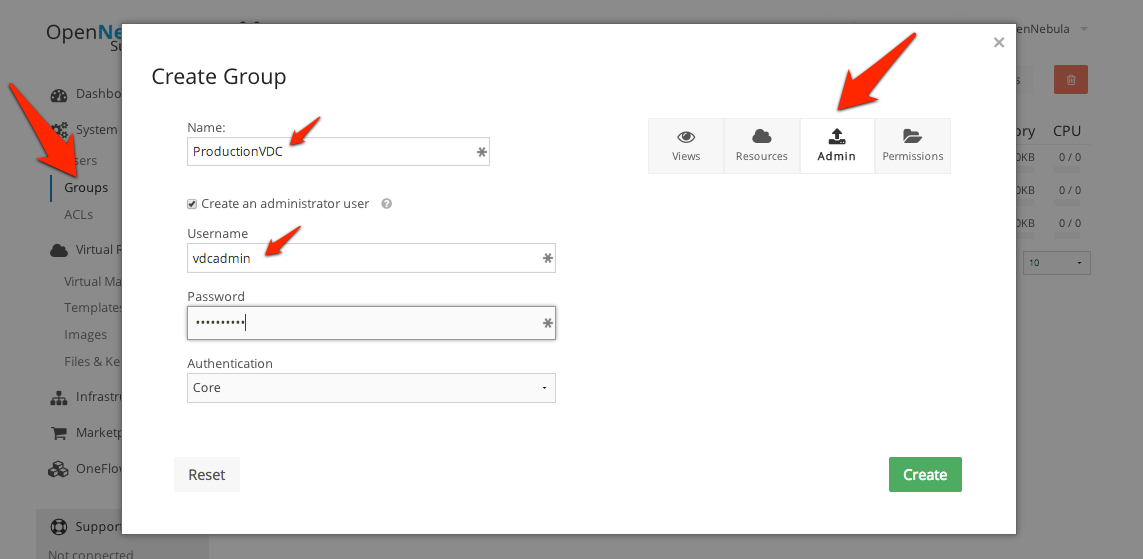
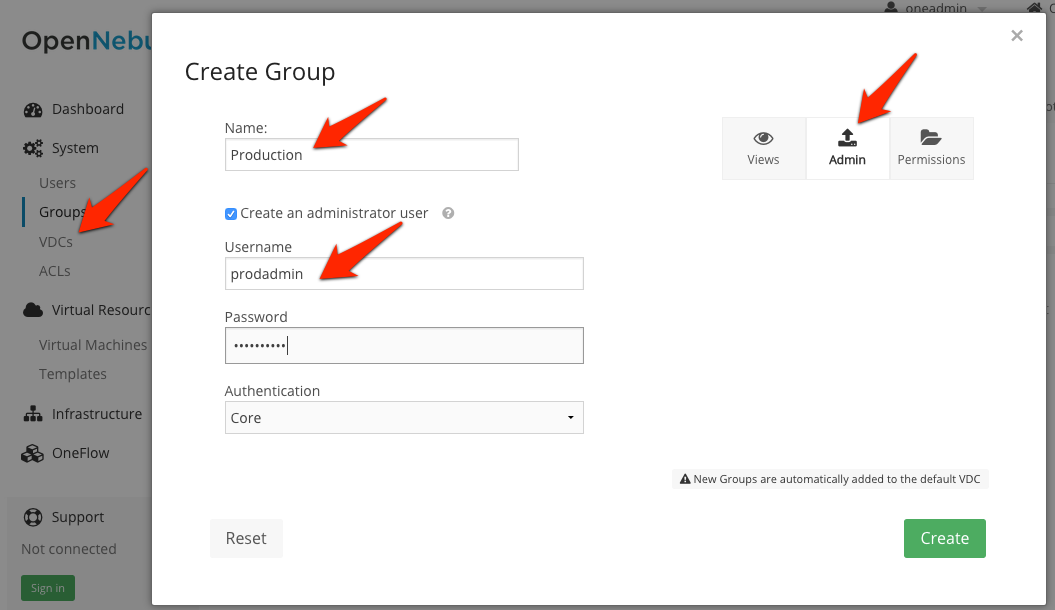
Modify ONE links to doc generation

diff --git a/docs/source/conf.py b/docs/source/conf.py
@@ -35,7 +35,7 @@ sys.path.append(os.path.abspath('ext'))
 # extensions coming with Sphinx (named 'sphinx.ext.*') or your custom
 # ones.
 extensions = [
-    'sphinx.ext.todo', 'versions'
+    'sphinx.ext.todo', 'versions', 'sphinx.ext.extlinks'
 ]
 
 todo_include_todos = True
@@ -71,6 +71,8 @@ copyright = '2015, OpenNebula Systems'
 #
 # The short X.Y version.
 version = '1.4'
+
+extlinks = {'doc': ('http://docs.opennebula.org/4.12/%s', 'doc ')}
 
 # The full version, including alpha/beta/rc tags.
 release = '1.4.0'

diff --git a/docs/source/ext/versions.py b/docs/source/ext/versions.py
@@ -4,6 +4,7 @@ def setup(app):
 
     app.connect('html-page-context', create_versions)
 
+
 def create_versions(app, docname, templatename, ctx, doctree):
     ctx['versions']  = app.builder.env.config['versions']
     ctx['downloads'] = app.builder.env.config['downloads']

diff --git a/docs/source/overview/features.rst b/docs/source/overview/features.rst
@@ -6,7 +6,7 @@ vOneCloud Features
 
 .. _features_outofthebox:
 
-vOneCloud leverages the `functionality of OpenNebula <http://docs.opennebula.org/4.10/release_notes/release_notes/features.html>`__. The following features come preconfigured and can be used **out-of-the-box** with vOneCloud:
+vOneCloud leverages the :doc:`functionality of OpenNebula <release_notes/release_notes/features.html>`. The following features come preconfigured and can be used **out-of-the-box** with vOneCloud:
 
 * **Cloud User Interfaces**
 
@@ -25,7 +25,7 @@ vOneCloud leverages the `functionality of OpenNebula <http://docs.opennebula.org
 
 * **On-demand Provision of Virtual Data Centers**
 
-  * Dynamic creation of Virtual Data Centers (VDCs) as fully-isolated virtual infrastructure environments where a group of users, under the control of the VDC administrator, can create and manage compute capacity
+  * Dynamic creation of Virtual Data Centers (VDCs) as fully-isolated virtual infrastructure environments where a group of users, under the control of the group administrator, can create and manage compute capacity
   * Placement of VDCs to multiple vCenters
 
 * **Hybrid Cloud**
@@ -76,14 +76,14 @@ If you feel that there is a particular feature interesting for the general publi
 
 vOneCloud can leverage all the functionality that OpenNebula delivers, but some of it needs **additional configuration** steps:
 
-* `Centralized Management of Multiple Zones <http://docs.opennebula.org/4.10/release_notes/release_notes/features.html#centralized-management-of-multiple-zones>`__. Federate different datacenters by joining several vOneCloud instances.
+* :doc:`Centralized Management of Multiple Zones <release_notes/release_notes/features.html#centralized-management-of-multiple-zones>`. Federate different datacenters by joining several vOneCloud instances.
 
-* `Community Virtual Appliance Marketplace <http://docs.opennebula.org/4.10/release_notes/release_notes/features.html#community-virtual-appliance-marketplace>`__. Create your own marketplace or benefit from community contributions with an online catalog of ready-to-run virtual appliances.
+* :doc:`Community Virtual Appliance Marketplace <release_notes/release_notes/features.html#community-virtual-appliance-marketplace>`. Create your own marketplace or benefit from community contributions with an online catalog of ready-to-run virtual appliances.
 
-* `Broad Commodity and Enterprise Platform Support <http://docs.opennebula.org/4.10/release_notes/release_notes/features.html#broad-commodity-and-enterprise-platform-support>`__. Underlying OpenNebula software features an amazingly flexible and plugin oriented architecture that eases the integration with existing datacenter components. Do no reinvent your datacenter, evolve it!
+* :doc:`Broad Commodity and Enterprise Platform Support <release_notes/release_notes/features.html#broad-commodity-and-enterprise-platform-support>`. Underlying OpenNebula software features an amazingly flexible and plugin oriented architecture that eases the integration with existing datacenter components. Do no reinvent your datacenter, evolve it!
 
-* `Virtual <http://docs.opennebula.org/4.10/release_notes/release_notes/features.html#advanced-control-and-monitoring-of-virtual-infrastructure>`__ & `Physical <http://docs.opennebula.org/4.10/release_notes/release_notes/features.html#advanced-control-and-monitoring-of-physical-infrastructure>`__ Infrastructure Control. Manage all aspects of your physical (hypervisors, storage backends, etc) & virtualized (VM lifecycle, VM images, virtual networks, etc) from a centralized web interface (Sunstone).
+* :doc:`Virtual <release_notes/release_notes/features.html#advanced-control-and-monitoring-of-virtual-infrastructure>` & :doc:`Physical <release_notes/release_notes/features.html#advanced-control-and-monitoring-of-physical-infrastructure>` Infrastructure Control. Manage all aspects of your physical (hypervisors, storage backends, etc) & virtualized (VM lifecycle, VM images, virtual networks, etc) from a centralized web interface (Sunstone).
 
-* `Management of multi-VM application (services) through the OneFlow component <http://docs.opennebula.org/4.10/advanced_administration/application_flow_and_auto-scaling/oneapps_overview.html>`__. OneFlow allows users and administrators to define, execute and manage multi-tiered applications, or services composed of interconnected Virtual Machines with deployment dependencies between them. Each group of Virtual Machines is deployed and managed as a single entity.
+* :doc:`Management of multi-VM application (services) through the OneFlow component <advanced_administration/application_flow_and_auto-scaling/oneapps_overview.html>`. OneFlow allows users and administrators to define, execute and manage multi-tiered applications, or services composed of interconnected Virtual Machines with deployment dependencies between them. Each group of Virtual Machines is deployed and managed as a single entity.
 
 Although the configuration is tailored for vCenter infrastructures, all the power of OpenNebula is contained in vOneCloud and it can be unleashed!

diff --git a/docs/source/security_and_resource_consumption_control/users_groups.rst b/docs/source/security_and_resource_consumption_control/users_groups.rst
@@ -13,38 +13,36 @@ User & Roles
 
 vOneCloud can manage different types of users, attending to the permissions they have over infrastructure and logical resources.
 
-+----------------------+-----------------------------------------------------------------+----------+
-|    **User Type**     |                         **Permissions**                         | **View** |
-+----------------------+-----------------------------------------------------------------+----------+
-| Cloud Administrators | enough privileges to perform any operation on any object        | vcenter  |
-+----------------------+-----------------------------------------------------------------+----------+
-| VDC Administrators   | manage a limited set of resources and users                     | vdcadmin |
-+----------------------+-----------------------------------------------------------------+----------+
-| VDC & End Users      | access a simplified view with limited actions to create new VMs | cloud    |
-+----------------------+-----------------------------------------------------------------+----------+
++----------------------+-----------------------------------------------------------------+------------+
+|    **User Type**     |                         **Permissions**                         |  **View**  |
++----------------------+-----------------------------------------------------------------+------------+
+| Cloud Administrators | enough privileges to perform any operation on any object        | vcenter    |
++----------------------+-----------------------------------------------------------------+------------+
+| Group Administrators | manage a limited set and users within VDCs                      | groupadmin |
++----------------------+-----------------------------------------------------------------+------------+
+| End Users            | access a simplified view with limited actions to create new VMs | cloud      |
++----------------------+-----------------------------------------------------------------+------------+
 
 .. note:: VDC is the acronym for Virtual Datacenter
 
 .. image:: /images/sunstone_user_list.png
     :align: center
 
-Learn more about user management `here <http://docs.opennebula.org/4.10/administration/users_and_groups/manage_users.html>`__.
+Learn more about user management :doc:`here <administration/users_and_groups/manage_users.html>`.
 
 .. _vdc_management:
 
 Group & VDC Management
 ----------------------
 
-A **group** in vOneCloud is an authorization boundary for users, but it can also be used to partition the cloud infrastructure and define what resources are available to each group.
+A **group** of users makes it possible to isolate users and resources. A user can see and use the shared resources from other users. The **group** is an authorization boundary for the users, but you can also partition your cloud infrastructure and define what resources are available to each group using Virtual Data Centers (VDC).
 
-A **resource provider** is a set of physical hosts and associated datastores and virtual networks, which is logically grouped into a cluster. When you assign a resource provider to a group, users in that group will be able to use resources of that cluster.
-
-A group and an associated resource provider forms a **Virtual Datacenter (VDC)**. VDCs are a great way to partition your cloud into smaller clouds, with their administrator and users, completely isolated from other VDCs.
+A VDC defines an assignment of one or several groups to a pool of physical resources. This pool of physical resources consists of resources from one or several clusters, which are logical agroupations of hosts and virtual networks. VDCs are a great way to partition your cloud into smaller clouds, and asign them to groups with their administrators and users, completely isolated from other groups.
 
 .. image:: /images/sunstone_group_list.png
     :align: center
 
-Read more about `groups <http://docs.opennebula.org/4.10/administration/users_and_groups/manage_groups.html>`__ and `VDCs <http://docs.opennebula.org/4.10/administration/users_and_groups/manage_groups.html#managing-vdc-and-resource-providers>`__.
+Read more about :doc:`groups <administration/users_and_groups/manage_groups.html>` and :doc:`VDCs <administration/users_and_groups/manage_groups.html#managing-vdc-and-resource-providers>`.
 
 Access Control Lists
 --------------------
@@ -54,5 +52,5 @@ vOneCloud implements a very useful ACL mechanism that enables fine-tuning of all
 .. image:: /images/sunstone_acl_list.png
     :align: center
 
-Writing (or even reading) ACL rules is not trivial, more information about `ACLs here <http://docs.opennebula.org/4.10/administration/users_and_groups/manage_acl.html>`__.
+Writing (or even reading) ACL rules is not trivial, more information about :doc:`ACLs here <administration/users_and_groups/manage_acl.html>`.
 

diff --git a/docs/source/simple_cloud_deployment/interfaces.rst b/docs/source/simple_cloud_deployment/interfaces.rst
@@ -11,19 +11,19 @@ Web Interface (Sunstone)
 
 vOneCloud web interface, called Sunstone, offers three main views:
 
-- `Sunstone vCenter view <http://docs.opennebula.org/4.10/administration/sunstone_gui/suns_views.html#vcenter-view>`__: Aimed at cloud administrators, this view is tailored to present all the available options to manage the physical and virtual aspects of your vCenter infrastructure.
+- :doc:`Sunstone vCenter view <administration/sunstone_gui/suns_views.html#vcenter-view>`: Aimed at cloud administrators, this view is tailored to present all the available options to manage the physical and virtual aspects of your vCenter infrastructure.
 
 .. image:: /images/vcenter_view.png
     :align: center
 
-- `Sunstone VDC Admin View <http://docs.opennebula.org/4.10/administration/sunstone_gui/vdc_admin_view.html>`__: Aimed at Virtual Datacenter administrators, this interface is designed to manage all the virtual resources of the VDC, including the creation of new users.
+- :doc:`Sunstone Group Admin View <administration/sunstone_gui/vdc_admin_view.html>`: Aimed at Group administrators, this interface is designed to manage all the virtual resources accesible by a group of users, including the creation of new users.
 
 .. image:: /images/vdcadmin_dash.png
     :align: center
 
 .. _vcenter_cloud_view:
 
-- **Sunstone vCenter Cloud View**: Aimed at end users, this interface eases virtual resource provisioning and hides all the complexity of the cloud that is going on behind the scenes. It is a tailored version of the Sunstone `Cloud View <http://docs.opennebula.org/4.10/administration/sunstone_gui/cloud_view.html>`__, with adjusted functionality relevant to vOneCloud and vCenter.
+- **Sunstone vCenter Cloud View**: Aimed at end users, this interface eases virtual resource provisioning and hides all the complexity of the cloud that is going on behind the scenes. It is a tailored version of the Sunstone :doc:`Cloud View <administration/sunstone_gui/cloud_view.html>`, with adjusted functionality relevant to vOneCloud and vCenter.
 
 .. image:: /images/cloud_dash.png
     :align: center
@@ -33,7 +33,7 @@ vOneCloud web interface, called Sunstone, offers three main views:
 Command Line Interface (CLI)
 ----------------------------
 
-If you are a SysAdmin, you will probably appreciate vOneCloud's `CLI <http://docs.opennebula.org/4.10/user/references/cli.html>`__, which uses the same design philosophy behind \*nix commands (one command for each task).
+If you are a SysAdmin, you will probably appreciate vOneCloud's :ref:`CLI <user/references/cli.html>`, which uses the same design philosophy behind \*nix commands (one command for each task).
 
 Moreover, vOneCloud ships with a powerful tool (``onevcenter``) to import vCenter clusters, VM Templates and Networks. The tools is self-explanatory, just set the credentials and IP to access the vCenter host and follow on screen instructions.
 
@@ -45,6 +45,6 @@ Application Programming Interfaces (API)
 
 If you are a DevOp, you are probably used to build scripts to automate tasks for you. vOneCloud offers a rich set of APIs to build scripts to perform these tasks in different programming languages:
 
-- `xmlrpc API <http://docs.opennebula.org/4.10/integration/system_interfaces/api.html>`__ Talk directly to the OpenNebula core
-- `Ruby OpenNebula Cloud API (OCA) <http://docs.opennebula.org/4.10/integration/system_interfaces/ruby.html>`__ Build tasks in Ruby
-- `Java OpenNebula Cloud API (OCA) <http://docs.opennebula.org/4.10/integration/system_interfaces/java.html>`__ Build tasks in Java
+- :doc:`xmlrpc API <integration/system_interfaces/api.html>` Talk directly to the OpenNebula core
+- :doc:`Ruby OpenNebula Cloud API (OCA) <integration/system_interfaces/ruby.html>` Build tasks in Ruby
+- :doc:`Java OpenNebula Cloud API (OCA) <integration/system_interfaces/java.html>` Build tasks in Java

diff --git a/docs/source/simple_cloud_deployment/create_vdc.rst b/docs/source/simple_cloud_deployment/create_vdc.rst
@@ -8,16 +8,27 @@ The provisioning model by default in vOneCloud is based on three different :ref:
 
 *vOneCloud* user comes preconfigured and is the **Cloud Administrator**, in full control of all the physical and virtual resources and using the vCenter view.
 
-The whole cloud can be divided in isolated partitions, called Virtual Datacenters, or VDCs. VDC are defined as group of users with access to a set of physical hosts and their associated resources in a transparent way. A **VDC Admin** manages her partition of the cloud, including user management, but only within her VDC, not for the whole cloud like the **Cloud Administrator**.
+A Virtual Datacenter (VDC) defines an assignment of one or several groups to a pool of physical resources. This pool of physical resources consists of resources from one or several clusters, which are logical agroupations of hosts and virtual networks. VDCs are a great way to partition your cloud into smaller clouds, and asign them to groups with their administrators and users, completely isolated from other groups.
 
-Let's create a VDC named *ProductionVDC* with an administrator called **vdcadmin**:
+A **Group Admin** manages her partition of the cloud, including user management, but only within the VDCs assigned to the Group, not for the whole cloud like the **Cloud Administrator**.
+
+Let's create a Group (under System) named *Production* with an administrator called **prodadmin**:
 
 .. image:: /images/create_vdc_adminview.png
     :align: center
 
-In the *Resources* tab you can chose which physical resources are assigned to the VDC. By default it will use all the available resources.
 
-Now login again using this newly created **vdcadmin**. The VDC Admin view will kick in. Try it out creating the first *vdcuser* and assign them quotas on resource usage:
+Let's create a VDCs (under System) named *ProductionVDC*, and assign the *Production* group to use it:
+
+.. image:: /images/create_prod_vdc.png
+    :align: center
+
+Let's add resources to the VDC under the "Resources" tab, the vCenter and a Virtual Network:
+
+.. image:: /images/assign_resources_to_vdc.png
+    :align: center
+
+Now login again using the newly created **prodadmin**. The Group Admin view will kick in. Try it out creating the first *produser* and assign them quotas on resource usage:
 
 .. image:: /images/create_vdc_vdcview.png
     :align: center
@@ -29,9 +40,9 @@ As *vOneCloud* user, in the vCenter View, you will be able to see all the VM Tem
 
 The same applies for Virtual Networks these VM Templates may use.
 
-If you log with *vdcuser*, the view will change to the vCenter Cloud View, where **vdcuser** can start consuming VMs based on the VM Template shared by the **cloud administrator** and allowed by the **vdcadmin**:
+If you log with *produser*, the view will change to the vCenter Cloud View, where **vdcuser** can start consuming VMs based on the VM Template shared by the **Cloud Administrator** and allowed by the **vdcadmin**:
 
 .. image:: /images/create_vdc_cloudview.png
     :align: center
 
-Read more about `VDC managing <http://docs.opennebula.org/4.10/administration/users_and_groups/manage_groups.html#managing-vdc-and-virtual-resources>`__.
+Read more about :doc:`Group <administration/users_and_groups/manage_groups.html#managing-vdc-and-virtual-resources>` and :doc:`VDC <administration/users_and_groups/manage_vdcs.html>` managing.

diff --git a/docs/source/release_notes/system_requirements.rst b/docs/source/release_notes/system_requirements.rst
@@ -12,7 +12,7 @@ The following components are needed to be present in the infrastructure to imple
 |    **Component**    |                                                                                                                          **Observations**                                                                                                                         |   |
 +---------------------+-------------------------------------------------------------------------------------------------------------------------------------------------------------------------------------------------------------------------------------------------------------------+---+
 | vCenter 5.5 and 6.0 | - ESX hosts, VM Templates and Running VMs expected to be managed by vOneCloud needs to be grouped into clusters                                                                                                                                                   |   |
-|                     | - The IP or DNS needs to be known, as well as the credentials (username and password) of an `admin user <http://docs.opennebula.org/4.10/administration/virtualization/vcenterg.html#requirements>`__.                                                            |   |
+|                     | - The IP or DNS needs to be known, as well as the credentials (username and password) of an :doc:`admin user <administration/virtualization/vcenterg.html#requirements>`.                                                                                         |   |
 |                     | - DRS is not required but it is recommended. vOneCloud does not schedule to the granularity of ESX hosts, and you would need DRS to select the actual ESX host within the cluster. Otherwise the VM will be started in the ESX host associated to the VM Template |   |
 |                     | - All ESX belonging to the same vCenter cluster to be exposed to vOneCloud need to share at least one datastore among them.                                                                                                                                       |   |
 |                     | - VMs that will be instantiated through vOneCloud saved as VMs Templates in vCenter.                                                                                                                                                                              |   |
@@ -36,4 +36,4 @@ vOneCloud ships with a default of 2 CPUs and 2 GB of RAM, and as such it has bee
 - Up to 1.000 VMs in total, each vCenter managing up to 250 VMs
 - Up to 100 users, being the concurrent limit 10 users accessing the system simultaneously
 
-.. note:: For infrastructures exceeding the aforementioned limits, we recommend an installation of OpenNebula from scratch on a bare metal server, using the `vCenter drivers <http://docs.opennebula.org/4.10/administration/virtualization/vcenterg.html>`__
+.. note:: For infrastructures exceeding the aforementioned limits, we recommend an installation of OpenNebula from scratch on a bare metal server, using the :doc:`vCenter drivers <administration/virtualization/vcenterg.html>`

diff --git a/docs/source/infrastructure_configuration/authentication.rst b/docs/source/infrastructure_configuration/authentication.rst
@@ -67,13 +67,13 @@ For changes to take effect, you need to restart vOneCloud services and wait for 
     :align: center
 
 
-You can find more infromation on the integration with Active Directory `in this guide <http://docs.opennebula.org/4.10/administration/authentication/ldap.html#active-directory>`__ .
+You can find more infromation on the integration with Active Directory :doc:`in this guide <administration/authentication/ldap.html#active-directory>`.
 
 vOneCloud supports are a variety of other authentication methods with advanced configuration, follow the links to find the configuration steps needed (:ref:`Advanced Login <advanced_login>` needed):
 
-+------------------------------------------------------------------------------------------------------------------+-------------------------------------------------------------------------------+
-| `X509 Authentication <http://docs.opennebula.org/4.10/administration/authentication/x509_auth.html#x509-auth>`__ | | Strengthen your cloud infrastructure security                               |
-+------------------------------------------------------------------------------------------------------------------+-------------------------------------------------------------------------------+
-| `SSH Authentication <http://docs.opennebula.org/4.10/administration/authentication/ssh_auth.html#ssh-auth>`__    | | Users will generate login tokens based on standard ssh rsa keypairs for     |
-|                                                                                                                  | | authentication                                                              |
-+------------------------------------------------------------------------------------------------------------------+-------------------------------------------------------------------------------+
++-------------------------------------------------------------------------------------+-------------------------------------------------------------------------+
+| :doc:`X509 Authentication <administration/authentication/x509_auth.html#x509-auth>` | Strengthen your cloud infrastructure security                           |
++-------------------------------------------------------------------------------------+-------------------------------------------------------------------------+
+| :doc:`SSH Authentication <administration/authentication/ssh_auth.html#ssh-auth>`    | Users will generate login tokens based on standard ssh rsa keypairs for |
+|                                                                                     | authentication                                                          |
++-------------------------------------------------------------------------------------+-------------------------------------------------------------------------+

diff --git a/docs/source/infrastructure_configuration/hybrid_cloud.rst b/docs/source/infrastructure_configuration/hybrid_cloud.rst
@@ -39,7 +39,7 @@ The capacity that you attach to this region will define the maximum number and t
 
 Follow the tool tips that appear on mouse over to correctly configure the parameters.
 
-You need the Access and Secret key to be retrieved from your AWS account. More information on Amazon EC2 support can be found `here <http://docs.opennebula.org/4.10/advanced_administration/cloud_bursting/ec2g.html>`__.
+You need the Access and Secret key to be retrieved from your AWS account. More information on Amazon EC2 support can be found :doc:`here <advanced_administration/cloud_bursting/ec2g.html>`.
 
 **MS Azure**
 
@@ -87,7 +87,7 @@ You need the Pem Management Certificate to be retrieved from your AWS account. F
 
 Afterwards, copy the context of the .pem certificate in the clipboard and paste it in the text area of the Control Panel Pem Management Certificate field.
 
-More information on MS Azure support can be found `here <http://docs.opennebula.org/4.10/advanced_administration/cloud_bursting/azg.html>`__.
+More information on MS Azure support can be found :doc:`here <advanced_administration/cloud_bursting/azg.html>`.
 
 .. note:: Azure hybrid connectors only support non authenticated http proxies
 
@@ -110,7 +110,7 @@ The capacity that you attach to this region will define the maximum number and t
 
 Follow the tool tips that appear on mouse over to correctly configure the parameters.
 
-You need your SoftLayer Username and the API Key that can be retrieved from your SoftLayer Control Panel. More information on IBM SoftLayer support can be found `here <http://docs.opennebula.org/4.10/advanced_administration/cloud_bursting/slg.html>`__.
+You need your SoftLayer Username and the API Key that can be retrieved from your SoftLayer Control Panel. More information on IBM SoftLayer support can be found :doc:`here <advanced_administration/cloud_bursting/slg.html>`.
 
 .. warning:: If vOneCloud is running behind a corporate http proxy, the SoftLayer hybrid connectors won't be available
 
@@ -145,4 +145,4 @@ Once templates are ready, they can be consumed at VM creation time from the Clou
 .. image:: /images/hybrid_cloud_view.png
     :align: center
 
-Learn more about `hybrid support <http://docs.opennebula.org/4.10/advanced_administration/cloud_bursting/introh.html>`__.
+Learn more about :doc:`hybrid support <advanced_administration/cloud_bursting/introh.html>`.

diff --git a/docs/source/overview/what_is.rst b/docs/source/overview/what_is.rst
@@ -9,7 +9,7 @@ What Is?
 
 **The Open Replacement for vCloud**
 
-vOneCloud is an `OpenNebula <http://docs.opennebula.org/4.10/design_and_installation/building_your_cloud/intro.html>`_ distribution optimized to work on existing VMware vCenter deployments. It deploys an enterprise-ready OpenNebula cloud just in a few minutes where the infrastructure is managed by already familiar VMware tools, such as vSphere and vCenter Operations Manager, and the provisioning, elasticity, multi-tenancy, elasticity and multi-vm cloud features are offered by OpenNebula. It inherits all the `benefits <http://opennebula.org/about/technology/>`__ from the open source cloud managment platform, adding an easy to deploy, easy to use aspect due to pre configuration of the OpenNebula install contained within the appliance.
+vOneCloud is an :doc:`OpenNebula <design_and_installation/building_your_cloud/intro.html>` distribution optimized to work on existing VMware vCenter deployments. It deploys an enterprise-ready OpenNebula cloud just in a few minutes where the infrastructure is managed by already familiar VMware tools, such as vSphere and vCenter Operations Manager, and the provisioning, elasticity, multi-tenancy, elasticity and multi-vm cloud features are offered by OpenNebula. It inherits all the `benefits <http://opennebula.org/about/technology/>`__ from the open source cloud managment platform, adding an easy to deploy, easy to use aspect due to pre configuration of the OpenNebula install contained within the appliance.
 
 vOneCloud is distributed as a virtual appliance in OVA format for vSphere. It contains all required OpenNebula services within a single CentOS Linux appliance. All components are fully open-source and have been certified to work in enterprise environments, vOneCloud 1.4 includes:
 

diff --git a/docs/source/release_notes/whats_new.rst b/docs/source/release_notes/whats_new.rst
@@ -4,13 +4,13 @@
 What's New vOneCloud 1.4
 ========================
 
-vOneCloud 1.4 is powered by OpenNebula Cotton Candy, and, as such, includes all the functionality present in `OpenNebula 4.12 Cotton Candy <http://docs.opennebula.org/4.12/release_notes/release_notes/index.html>`__.
+vOneCloud 1.4 is powered by OpenNebula Cotton Candy, and, as such, includes all the functionality present in :doc:`OpenNebula 4.12 Cotton Candy <release_notes/release_notes/index.html>`.
 
 The following Cloud Management features have been introduced in vOneCloud 1.4:
 
-- :ref:`Import running VMs <import_running_vms> with VNC capabilities`. vCenter running VMs with VNC ports set to open will be imported with VNC capabilities in vOneCloud
+- :ref:`Import running VMs with VNC capabilities <import_running_vms>`. vCenter running VMs with VNC ports set to open will be imported with VNC capabilities in vOneCloud
 - :ref:`Multi-VM capabilities <multi_vm_applications>`. Management of sets of VMs (services) through the OneFlow component
-- :ref:`Debug capabilities embedded in Control Panel <debug_control_panel>`. Useful to gather all the details of your infrastructure and get the best support.
+- :ref:`Debug capabilities embedded in Control Panel <app_conf_trouble_debug>`. Useful to gather all the details of your infrastructure and get the best support.
 - :ref:`Improved import and reacquire resources (VM, VM Templates and Networks) <import_running_vms>`. Separated dialogs for each resource instead of performing this actions through the host creation dialog.
 
 Multiple bugfixes and documentation improvements have been included in this version. Moreover, vOneCloud 1.4 has been certified with :ref:`support for vSphere 6.0 <system_requirements>`.

diff --git a/docs/source/simple_cloud_deployment/import_vcenter.rst b/docs/source/simple_cloud_deployment/import_vcenter.rst
@@ -42,7 +42,7 @@ After the vCenter cluster is selected in Step 2, a list of vCenter VM Templates 
 
 Additionally, these vOneCloud VM templates can be edited to add information to be passed into the instantiated VM. This process is called :ref:`Contextualization <build_template_context>`.
 
-Also, Virtual Networks can be further refined with the inclusion of different `Address Ranges <http://docs.opennebula.org/4.10/user/virtual_resource_management/vgg.html#the-address-range-ar>`__. This refinement can be done at import time, defining the size of the network one of the following supported Address Ranges:
+Also, Virtual Networks can be further refined with the inclusion of different :doc:`Address Ranges <user/virtual_resource_management/vgg.html#the-address-range-ar>`. This refinement can be done at import time, defining the size of the network one of the following supported Address Ranges:
 
 - IPv4: Need to define at least starting IP address. MAC address can be defined as well
 - IPv6: Can optionally define starting MAC adddress, GLOBAL PREFIX and ULA PREFIX
@@ -100,4 +100,4 @@ Step 5. Instantiate a VM Template
 
 Everything is ready! Now vOneCloud is prepared to manage Virtual Machines. In Sunstone, go to ``Virtual Resources --> Templates``, select one of the templates imported in **Step 2** and click on Instantiate. Now you will be able to control the lifecycle of the VM.
 
-More information on available operations over VMs `here <http://docs.opennebula.org/4.10/user/virtual_resource_management/vm_guide_2.html>`__.
+More information on available operations over VMs :doc:`here <user/virtual_resource_management/vm_guide_2.html>`.
